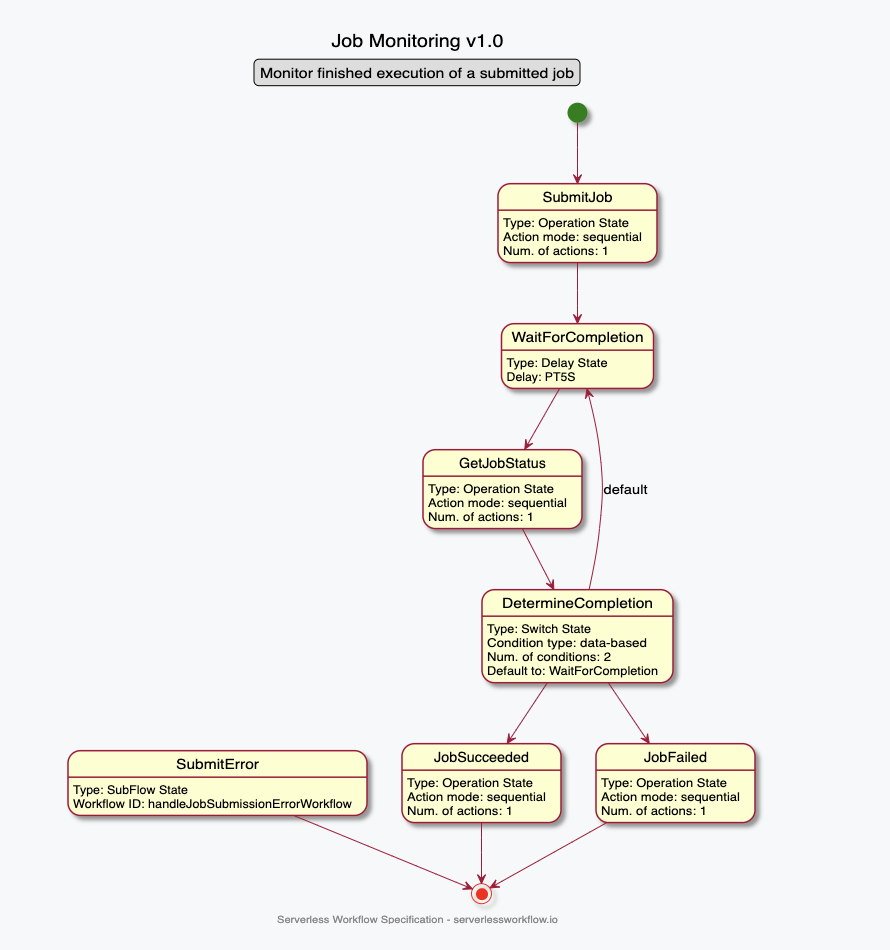
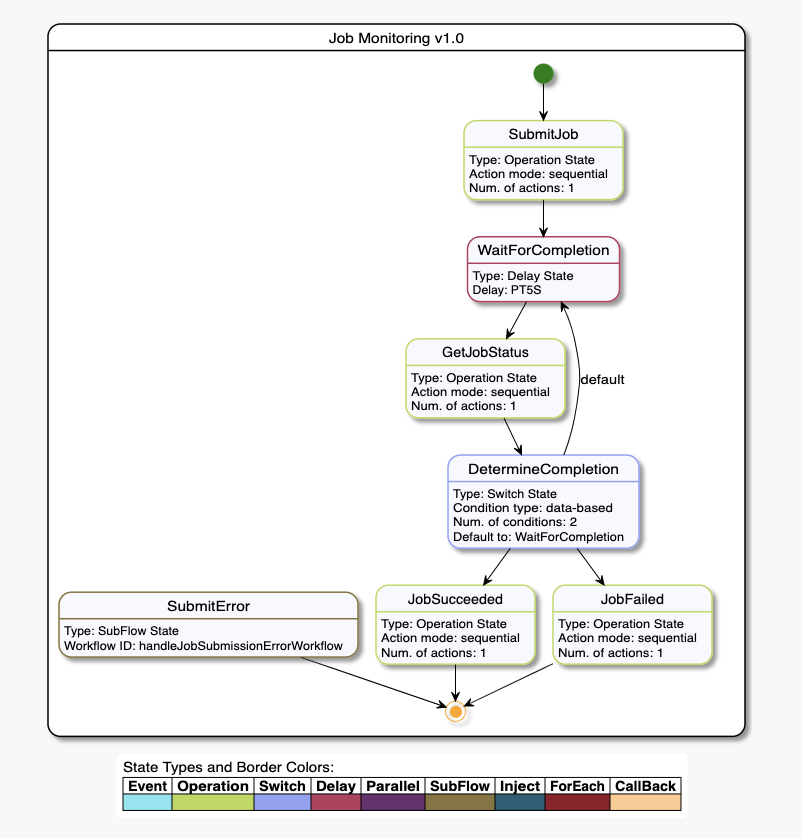
Updating generated diagram look/feel and adding legend

Changed region(s): [[0.0623, 0.031, 0.9352, 0.9928], [0.0623, 0.031, 0.2805, 0.0621]]

diff --git a/diagram/src/main/java/io/serverlessworkflow/diagram/model/WorkflowDiagramModel.java b/diagram/src/main/java/io/serverlessworkflow/diagram/model/WorkflowDiagramModel.java
@@ -18,7 +18,6 @@ package io.serverlessworkflow.diagram.model;
 
 import io.serverlessworkflow.api.Workflow;
 import io.serverlessworkflow.api.interfaces.State;
-import io.serverlessworkflow.api.interfaces.WorkflowDiagram;
 import io.serverlessworkflow.api.states.*;
 import io.serverlessworkflow.api.switchconditions.DataCondition;
 import io.serverlessworkflow.api.switchconditions.EventCondition;
@@ -34,6 +33,7 @@ public class WorkflowDiagramModel {
     private String title;
     private String legend;
     private String footer;
+    private List<ModelStateDef> modelStateDefs = new ArrayList<>();
     private List<ModelState> modelStates = new ArrayList<>();
     private List<ModelConnection> modelConnections = new ArrayList<>();
 
@@ -44,10 +44,9 @@ public class WorkflowDiagramModel {
 
     private void inspect(Workflow workflow) {
         // title
-        setTitle(WorkflowDiagramUtils.title + workflow.getName());
+        setTitle(workflow.getName());
         if (workflow.getVersion() != null && workflow.getVersion().trim().length() > 0) {
             StringBuffer titleBuf = new StringBuffer()
-                    .append(WorkflowDiagramUtils.title)
                     .append(workflow.getName())
                     .append(WorkflowDiagramUtils.versionSeparator)
                     .append(workflow.getVersion());
@@ -68,15 +67,24 @@ public class WorkflowDiagramModel {
         // footer
         setFooter(WorkflowDiagramUtils.footer);
 
-        // states
-        inspectStates(workflow);
+        // state definitions
+        inspectStateDefinitions(workflow);
 
-        // connections
-        inspectConnections(workflow);
+        // states info
+        inspectStatesInfo(workflow);
+
+        // states connections
+        inspectStatesConnections(workflow);
 
     }
 
-    private void inspectConnections(Workflow workflow) {
+    private void inspectStateDefinitions(Workflow workflow) {
+        for(State state : workflow.getStates()) {
+            modelStateDefs.add(new ModelStateDef(state.getName(), state.getType().value()));
+        }
+    }
+
+    private void inspectStatesConnections(Workflow workflow) {
         State workflowStartState = WorkflowDiagramUtils.getWorkflowStartState(workflow);
         modelConnections.add(new ModelConnection(WorkflowDiagramUtils.wfStart, workflowStartState.getName(), ""));
 
@@ -242,7 +250,7 @@ public class WorkflowDiagramModel {
         }
     }
 
-    private void inspectStates(Workflow workflow) {
+    private void inspectStatesInfo(Workflow workflow) {
         List<State> workflowStates = workflow.getStates();
         for(State state : workflowStates) {
             ModelState modelState = new ModelState(state.getName());
@@ -392,5 +400,13 @@ public class WorkflowDiagramModel {
 
     public void setModelConnections(List<ModelConnection> modelConnections) {
         this.modelConnections = modelConnections;
+    }
+
+    public List<ModelStateDef> getModelStateDefs() {
+        return modelStateDefs;
+    }
+
+    public void setModelStateDefs(List<ModelStateDef> modelStateDefs) {
+        this.modelStateDefs = modelStateDefs;
     }
 }

diff --git a/diagram/src/main/java/io/serverlessworkflow/diagram/model/ModelStateDef.java b/diagram/src/main/java/io/serverlessworkflow/diagram/model/ModelStateDef.java
@@ -1,0 +1,40 @@
+/*
+ * Copyright 2020-Present The Serverless Workflow Specification Authors
+ * <p>
+ * Licensed under the Apache License, Version 2.0 (the "License");
+ * you may not use this file except in compliance with the License.
+ * You may obtain a copy of the License at
+ * <p>
+ * http://www.apache.org/licenses/LICENSE-2.0
+ * <p>
+ * Unless required by applicable law or agreed to in writing, software
+ * distributed under the License is distributed on an "AS IS" BASIS,
+ * WITHOUT WARRANTIES OR CONDITIONS OF ANY KIND, either express or implied.
+ * See the License for the specific language governing permissions and
+ * limitations under the License.
+ *
+ */
+package io.serverlessworkflow.diagram.model;
+
+import io.serverlessworkflow.diagram.utils.WorkflowDiagramUtils;
+
+public class ModelStateDef {
+    private String name;
+    private String type;
+
+    public ModelStateDef(String name, String type) {
+        this.name = name;
+        this.type = type;
+    }
+
+    @Override
+    public String toString() {
+        StringBuffer retBuff = new StringBuffer();
+        retBuff.append(WorkflowDiagramUtils.stateDef)
+                .append(name)
+                .append(WorkflowDiagramUtils.typeDefStart)
+                .append(type)
+                .append(WorkflowDiagramUtils.typeDefEnd);
+        return retBuff.toString();
+    }
+}

diff --git a/diagram/src/main/java/io/serverlessworkflow/diagram/utils/WorkflowDiagramUtils.java b/diagram/src/main/java/io/serverlessworkflow/diagram/utils/WorkflowDiagramUtils.java
@@ -34,6 +34,10 @@ public class WorkflowDiagramUtils {
     public static final String footer = "center footer Serverless Workflow Specification - serverlessworkflow.io";
     public static final String legendStart = new StringBuffer().append("legend top center").append(System.lineSeparator()).toString();
     public static final String legendEnd = new StringBuffer().append(System.lineSeparator()).append("endlegend").toString();
+    public static final String stateDef = "state ";
+    public static final String typeDefStart = " << ";
+    public static final String typeDefEnd = " >> ";
+
 
     public static State getWorkflowStartState(Workflow workflow) {
         return workflow.getStates().stream()

diff --git a/README.md b/README.md
@@ -270,11 +270,11 @@ List<ValidationError> validationErrors = workflowValidator.setWorkflow(workflow)
 
 #### Building Workflow Diagram
 
-Given a valid workflow source or a Workflow object you can build the workflow Diagram SVG.
-Diagrams are built using [PlantUML](https://plantuml.com/) and can be embedded inside your 
+Given a valid workflow definition (JSON/YAML) or a Workflow object you can build the workflow diagram SVG.
+The generated diagram SVG uses [PlantUML](https://plantuml.com/) state diagram visualization and can be embedded inside your 
 tooling or web pages, or any SVG viewer.
 
-You can build the workflow diagram SVG the the following code:
+You can build the workflow diagram SVG with the following code:
 
 ``` java
 Workflow workflow = Workflow.fromSource(source);
@@ -285,7 +285,7 @@ workflowDiagram.setWorkflow(workflow);
 String diagramSVG = workflowDiagram.getSvgDiagram();
 ```
 
-`diagramSVG` includes the diagram SVG which you can then decide to save to a file, 
+`diagramSVG` includes the diagram SVG source which you can then decide to save to a file, 
 print, or process further.
 
 Here are some generated diagrams from the specification examples:
